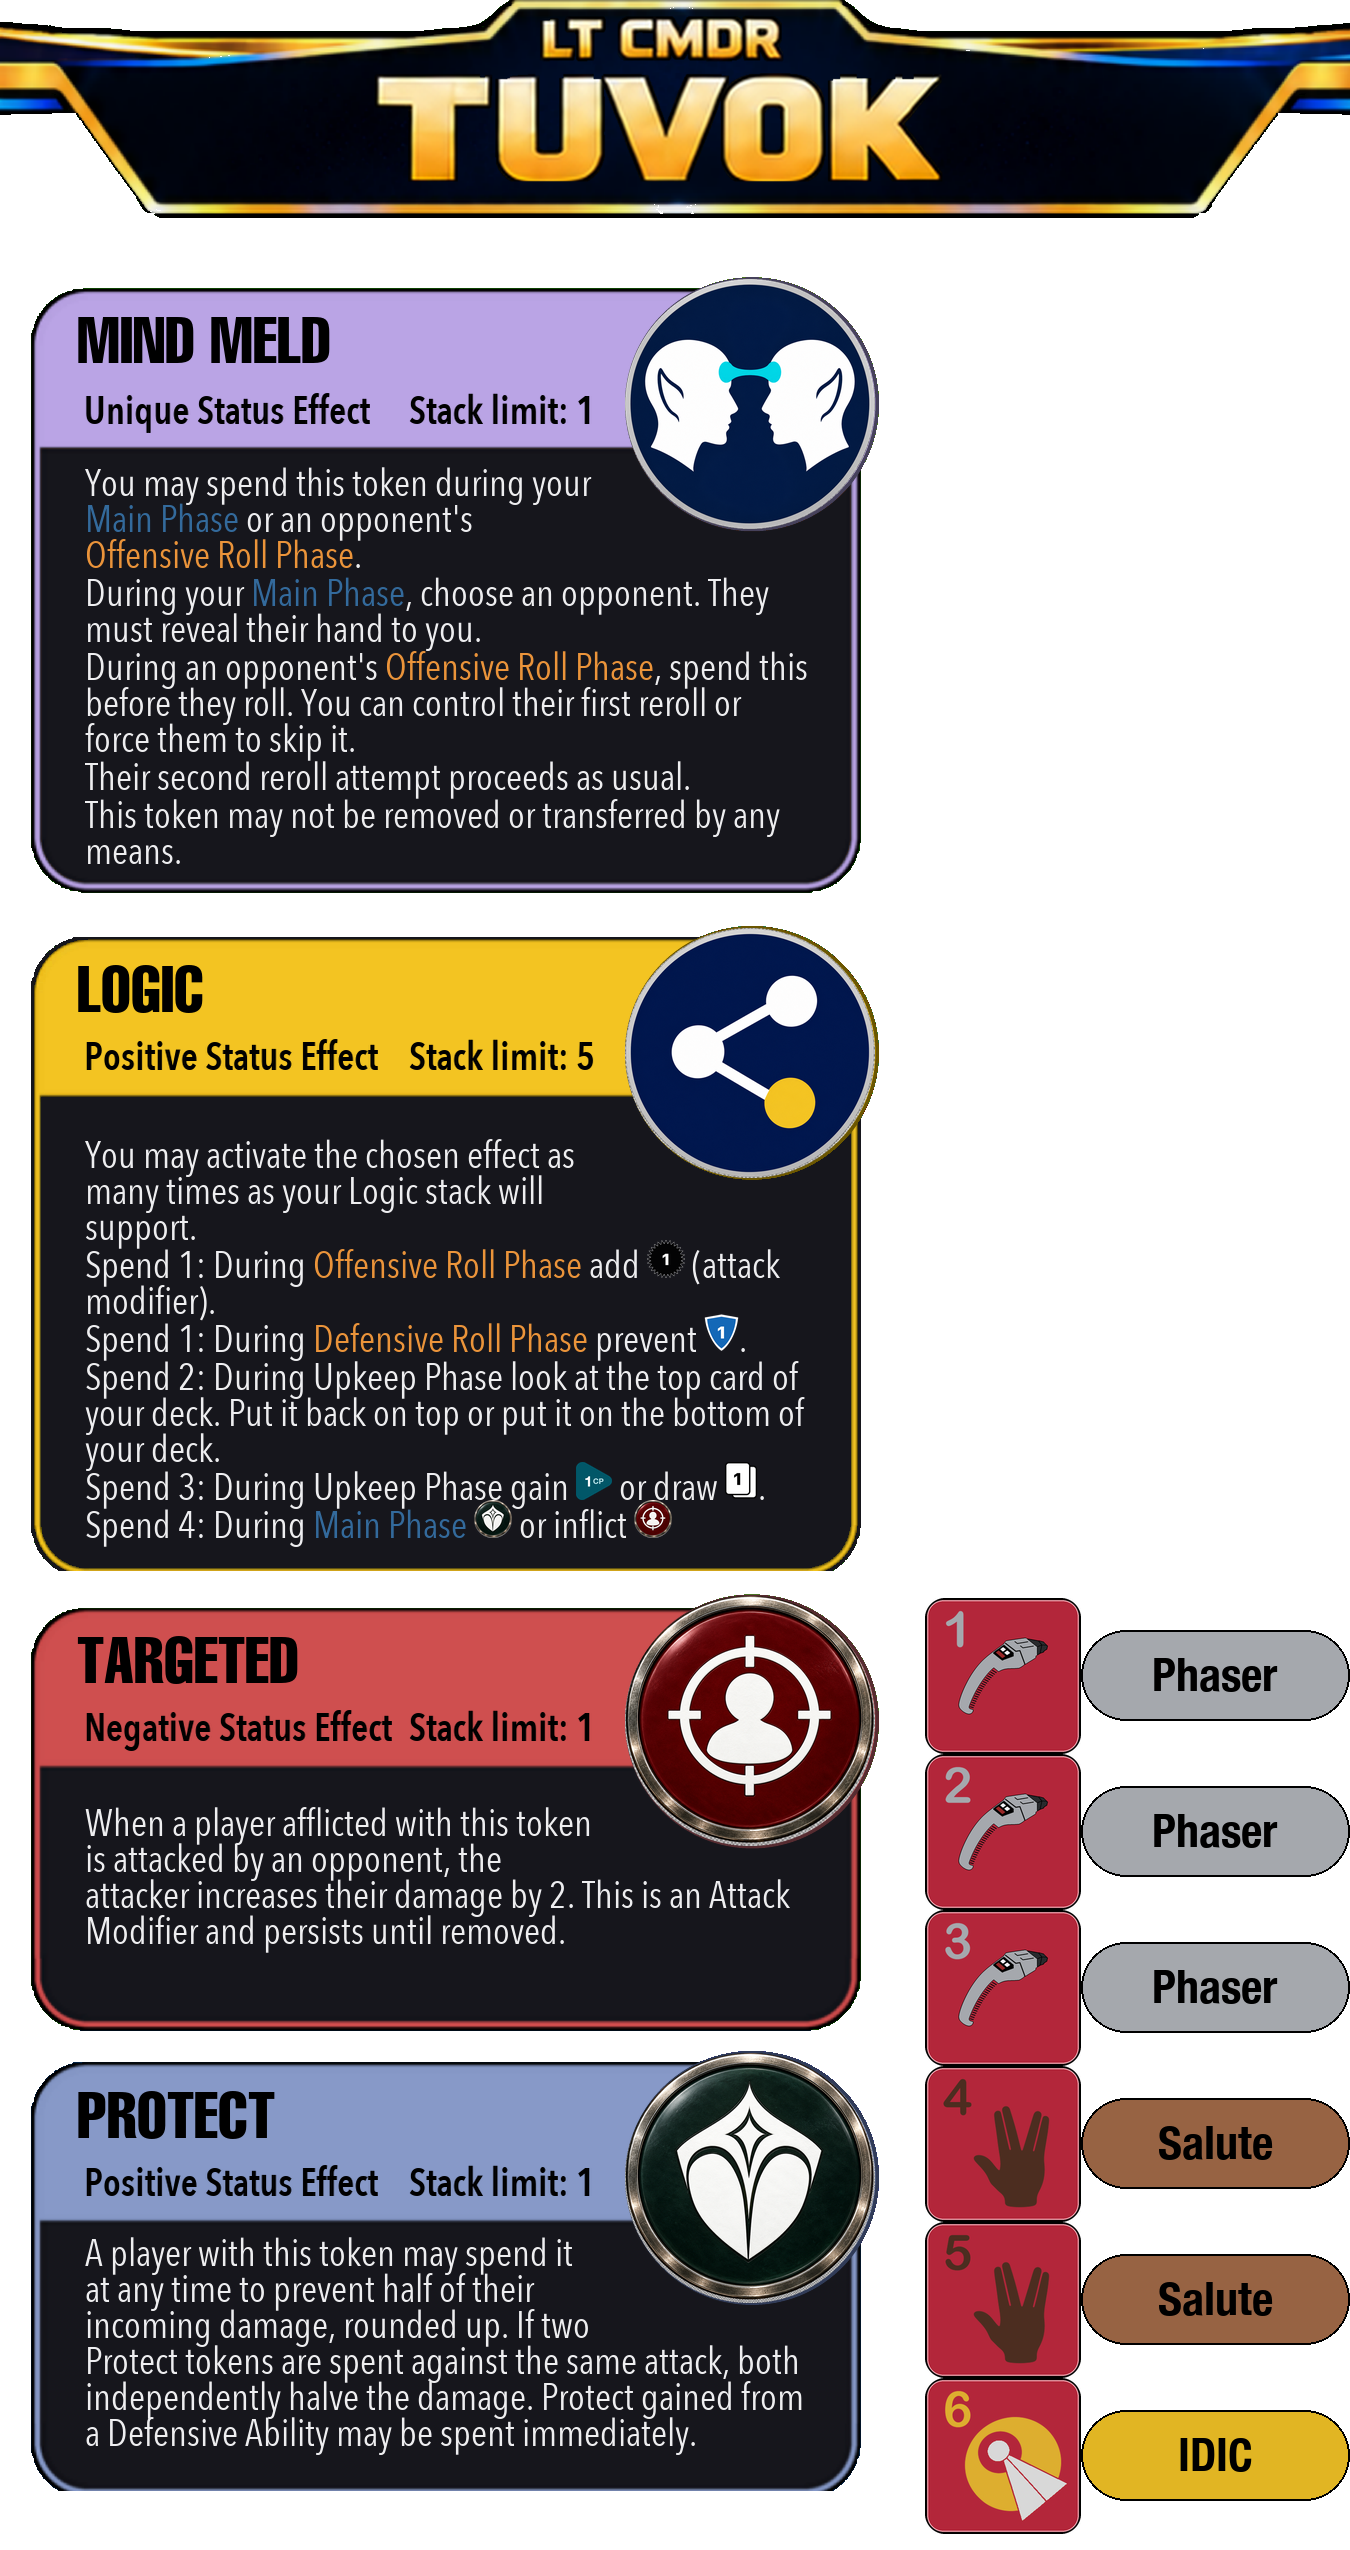
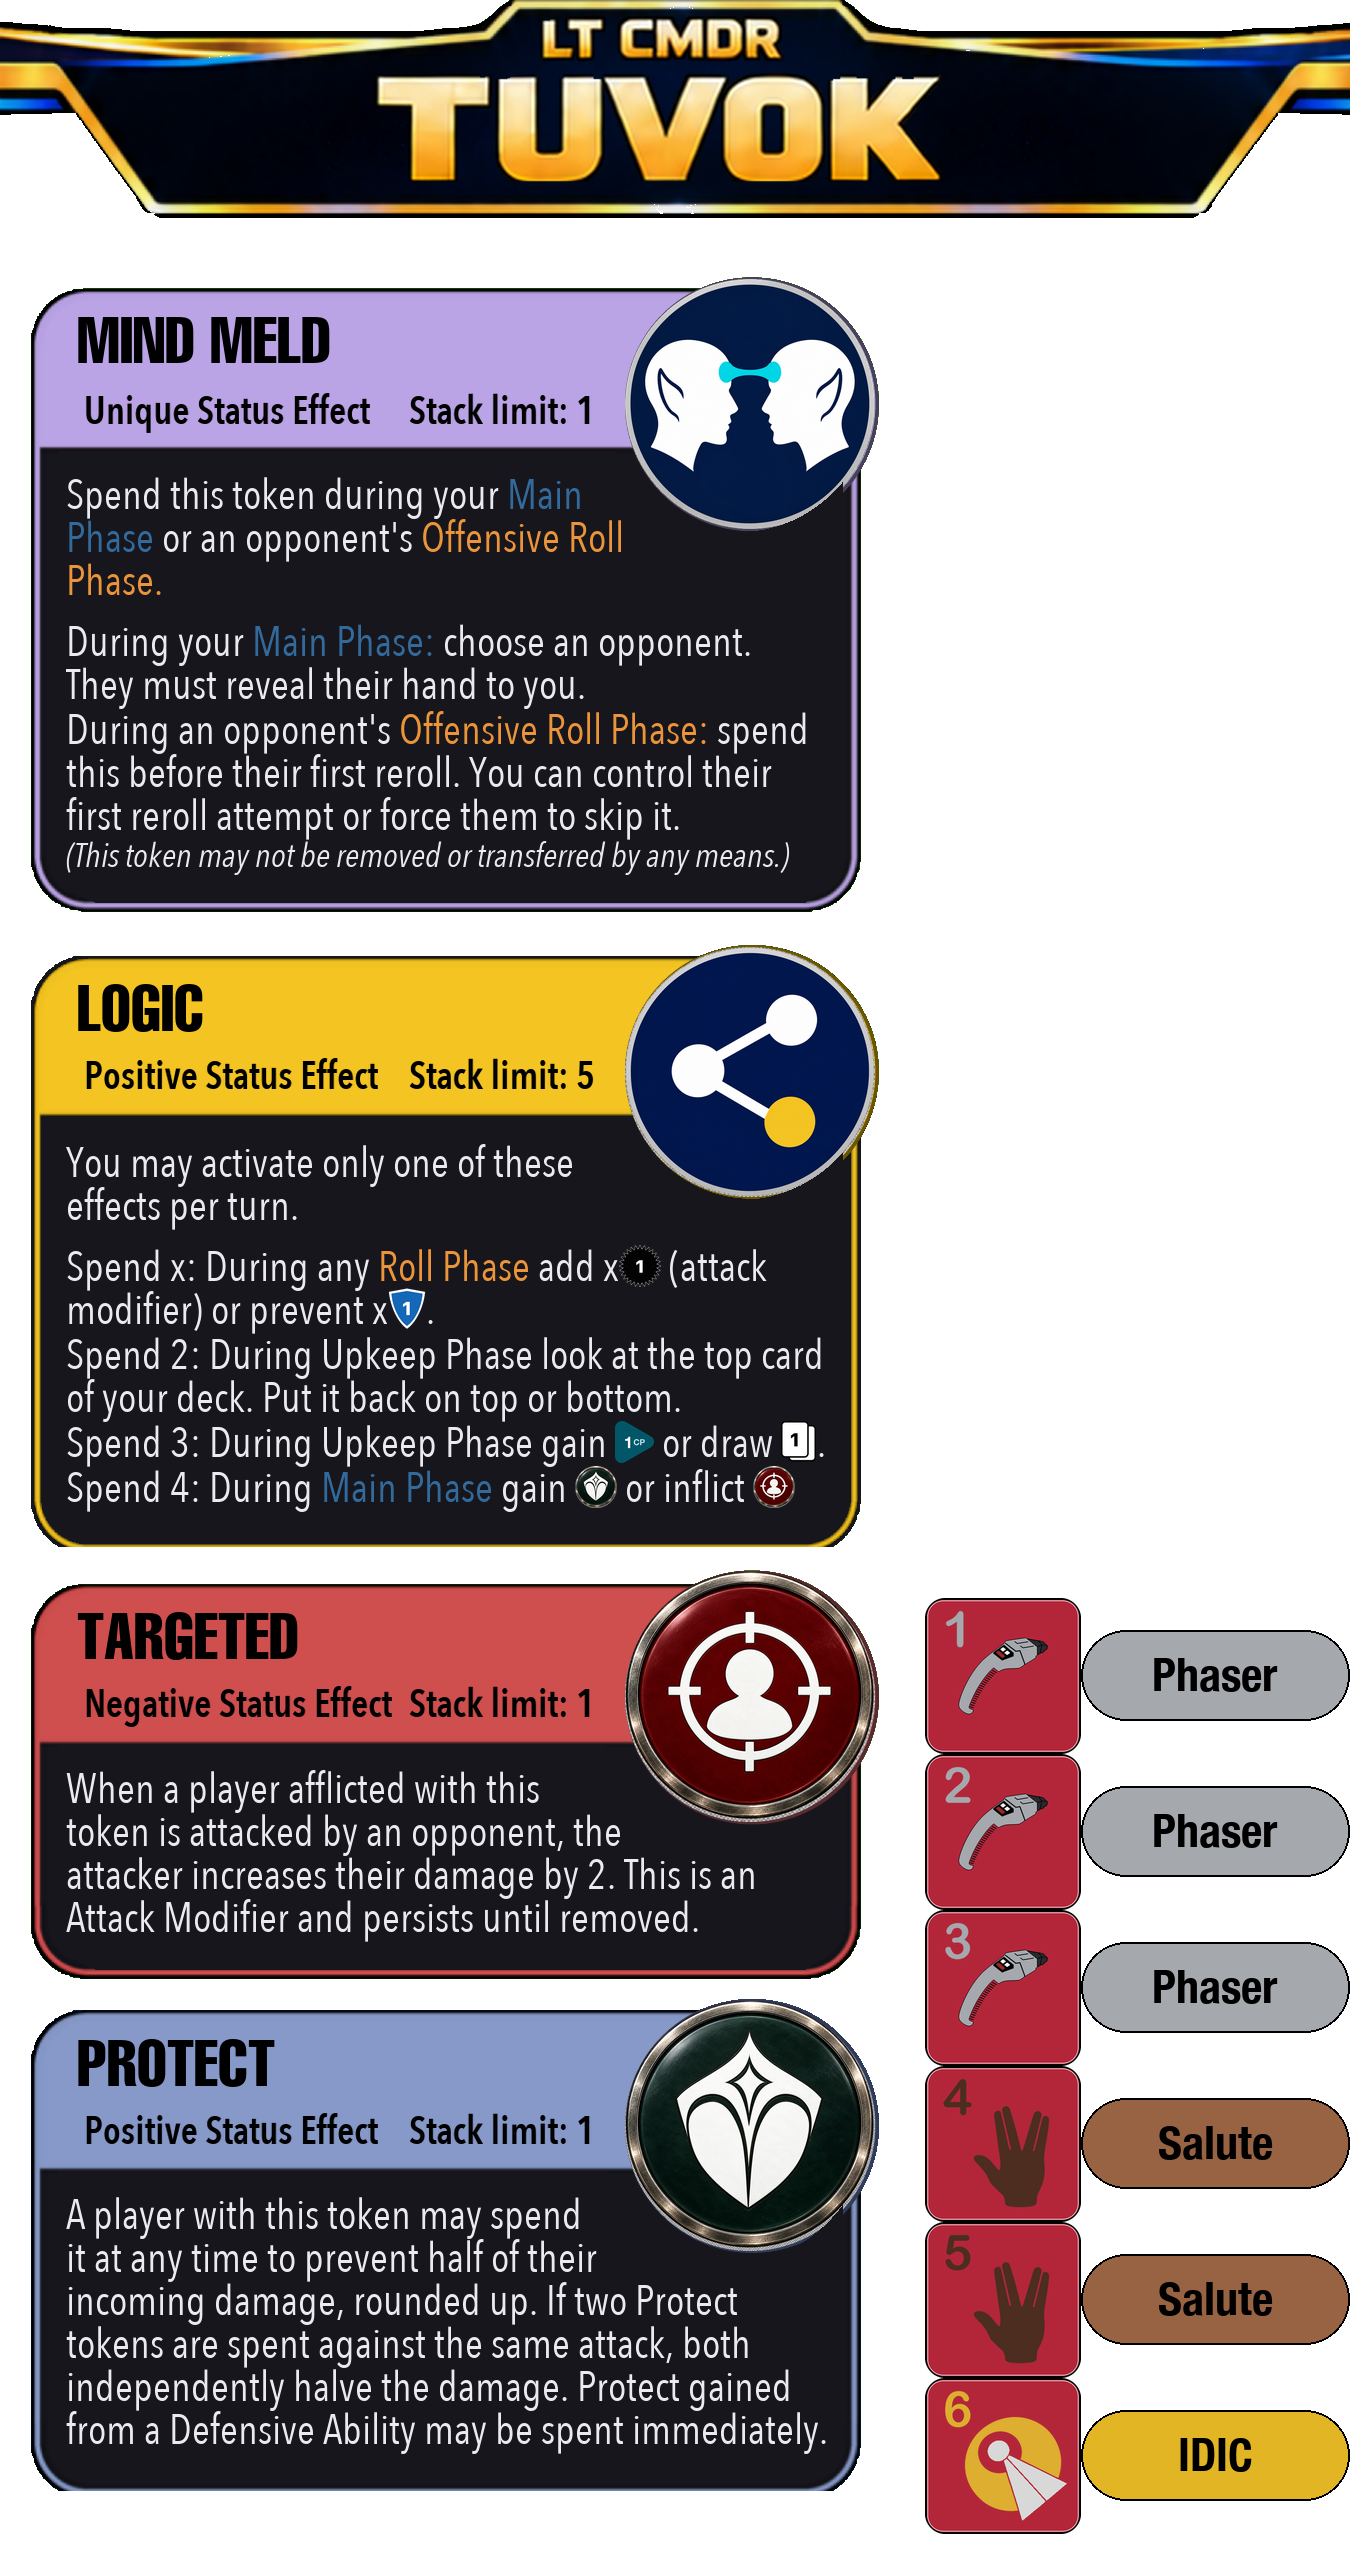
Tuvok: Condensed leaflet rules text and made the leaflet text bigger

Changed region(s): [[0.0, 0.1859, 0.6533, 0.9604]]

diff --git a/AGENTS.md b/AGENTS.md
@@ -6,6 +6,7 @@
 - Treat the directory containing this file as the project root. Check exact target paths before listing, moving, renaming, or deleting files.
 - Make only changes needed for the user's request. Check for destination conflicts before moving or renaming, and verify file operations afterward.
 - For inventory or comparison requests, state the scope and method briefly; do not change files unless asked.
+- When the user asks to push a commit but has not specified a commit message, ask them what message to use before creating or pushing the commit. Do not create or push a commit without a message that notes what changed.
 - When the user says a to-do item is finished, remove that item from the relevant `todo.md`. If it seems finished but the user has not said so, ask them before removing it.
 - Keep progress updates concise, and report completed changes with the affected paths.
 - When making raster image pixels fully transparent, set their RGB channels to zero at the same time as setting alpha to zero, unless the user explicitly asks to preserve the hidden RGB data.
